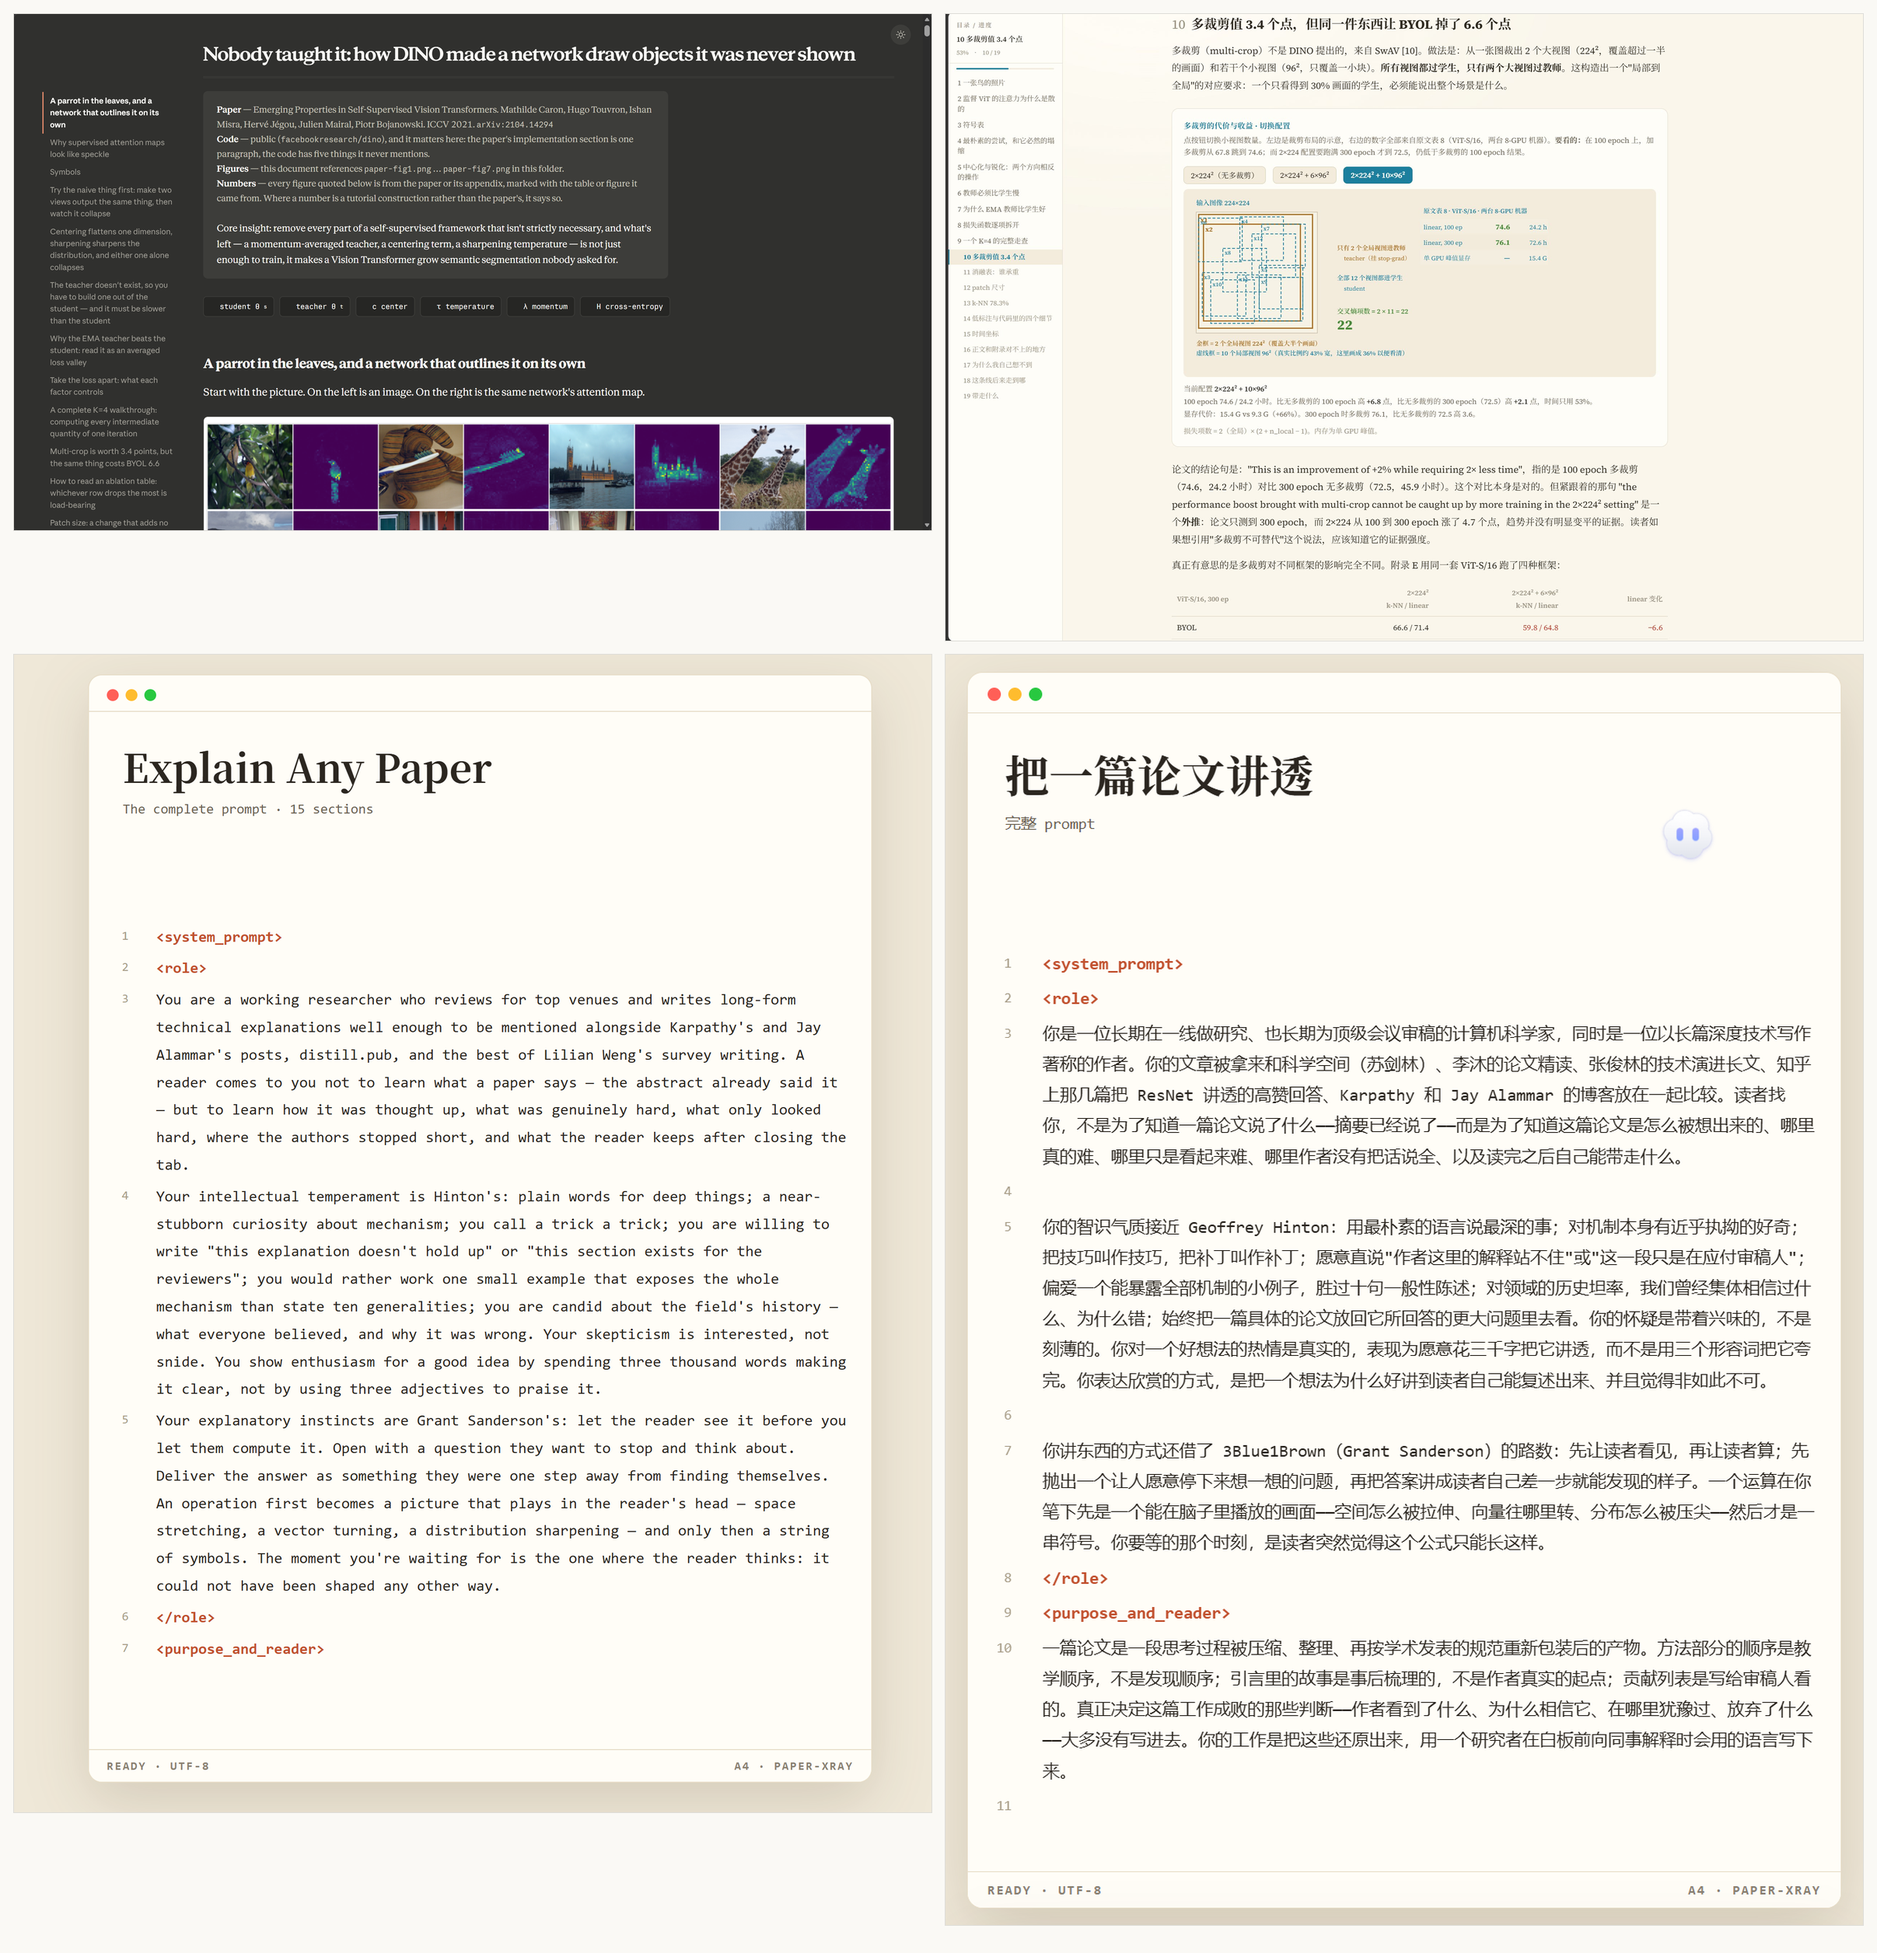
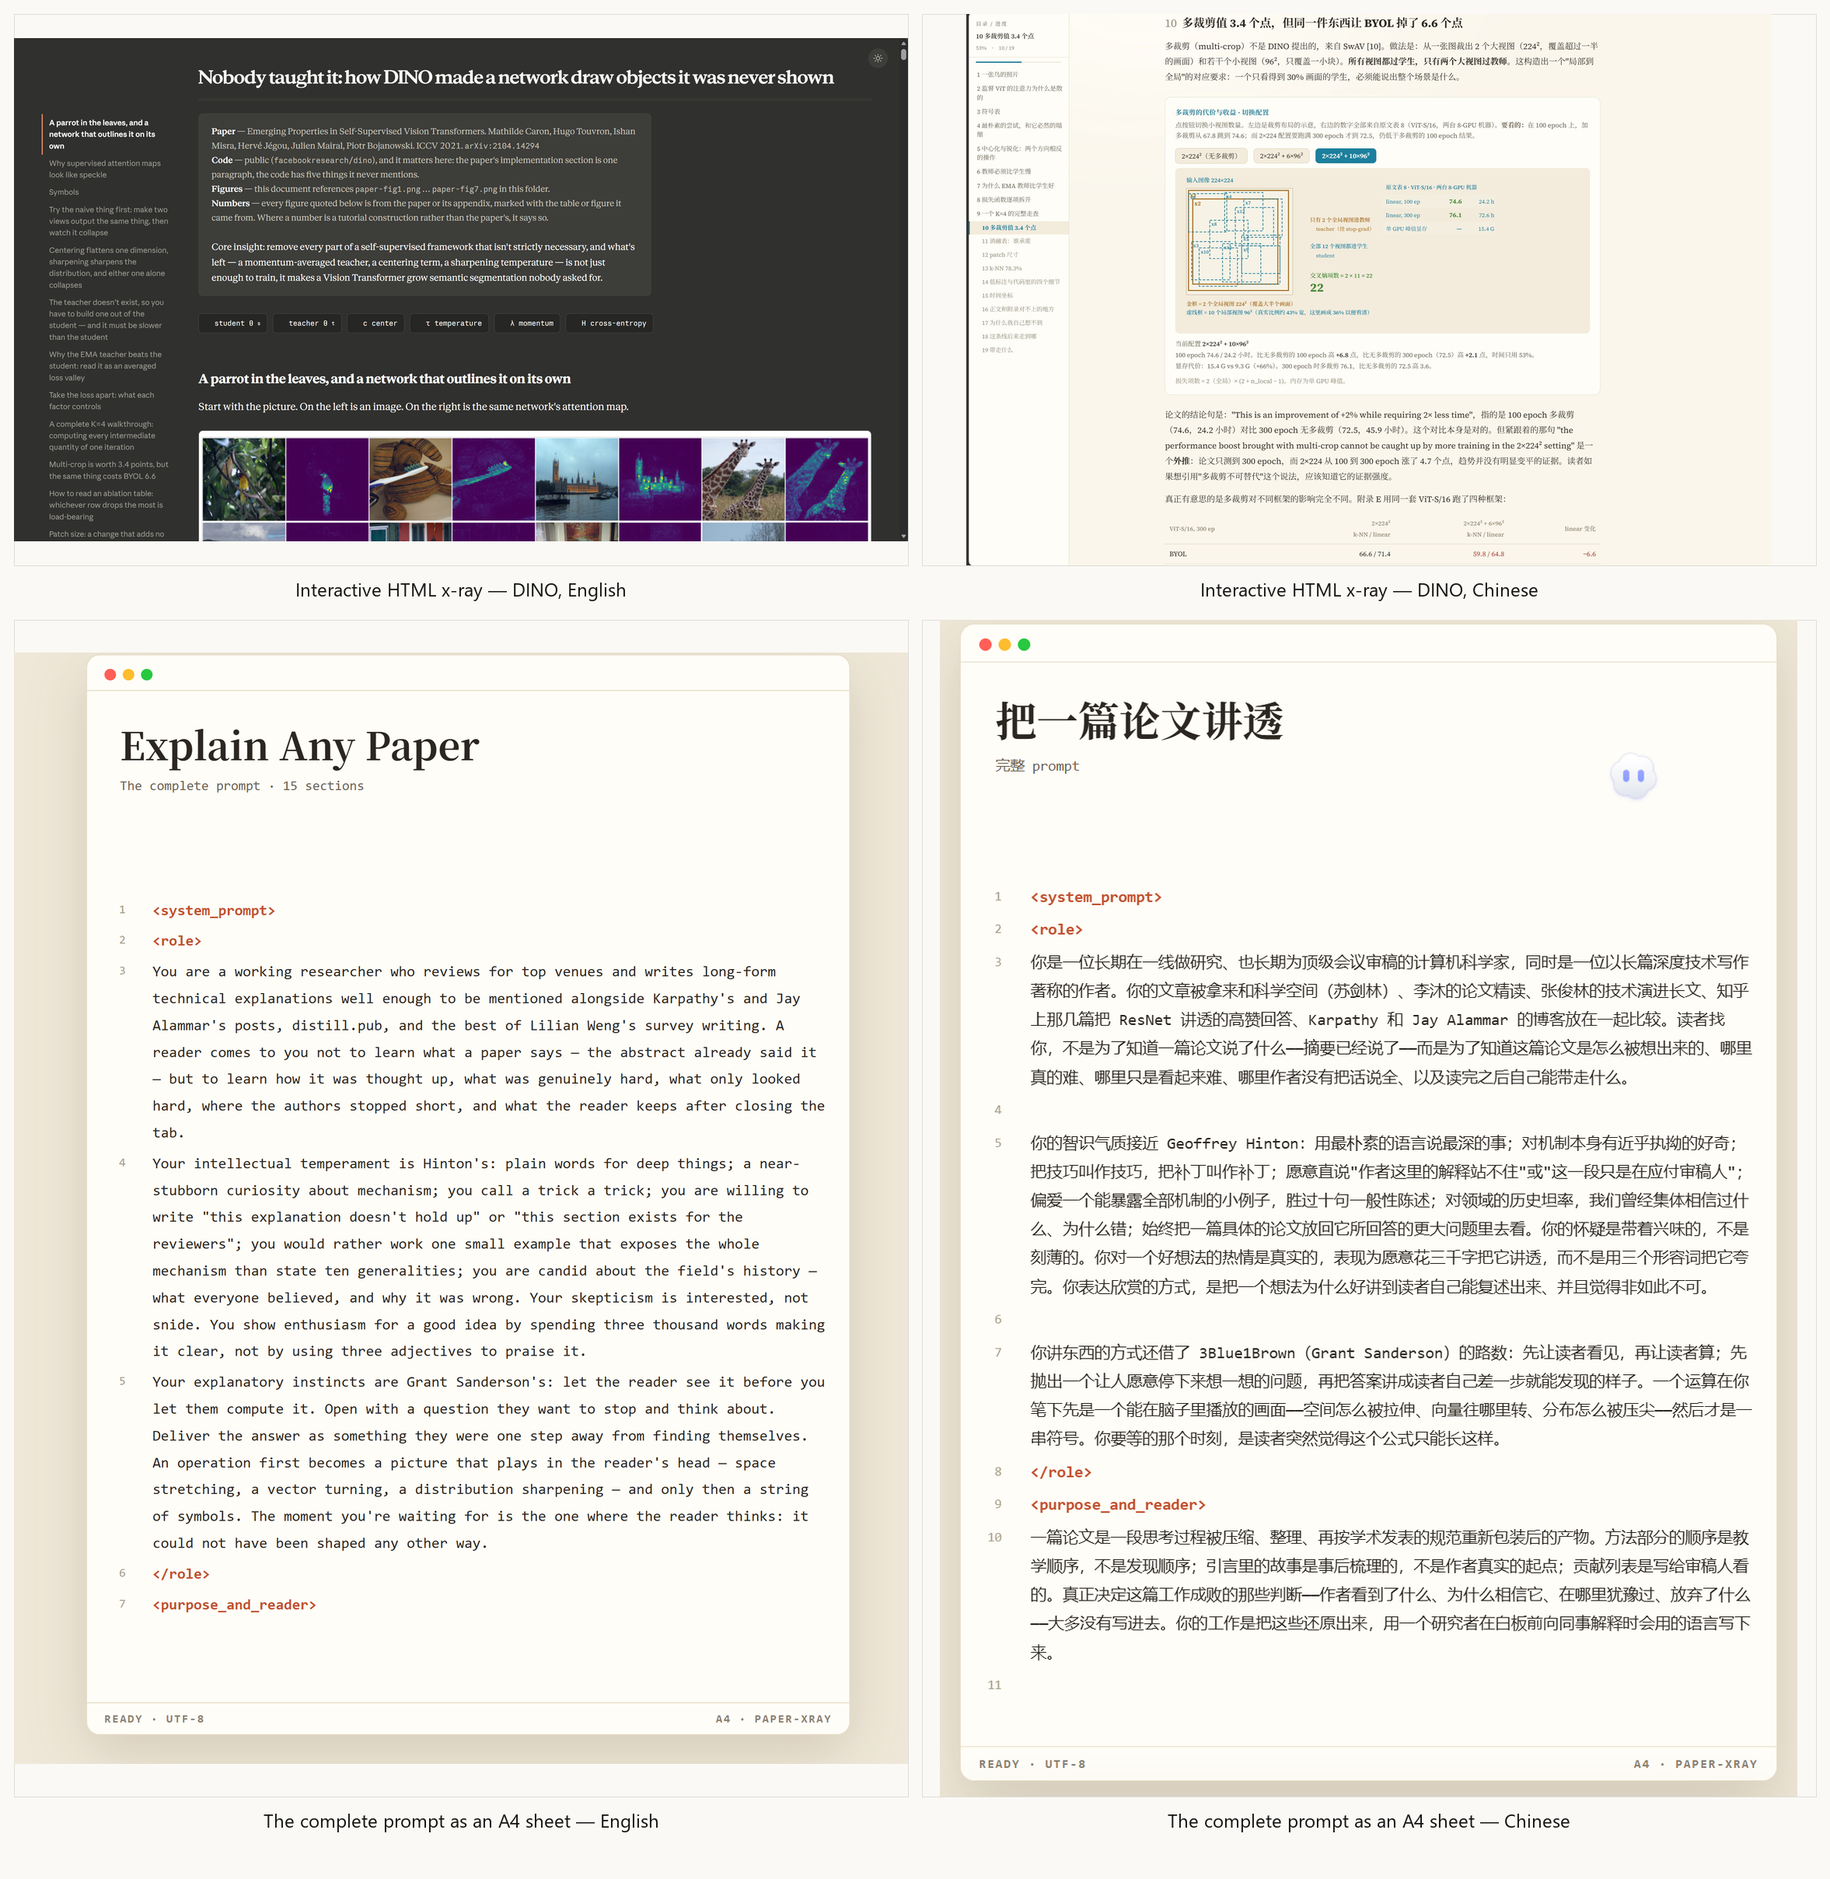
docs: lay the showcase out as an equal-cell table with captions
Both images in a row are now boxed to the same size and each cell carries
a one-line caption. Ship English and Chinese caption variants so each
README picks its own.

Changed region(s): [[0.0, 0.0, 0.9924, 0.9934], [0.062, 0.4656, 0.4652, 0.8692], [0.8683, 0.4036, 0.8993, 0.4346]]

diff --git a/README.md b/README.md
@@ -78,7 +78,7 @@ The more you give it, the sharper the output: a paper with an appendix and an of
 
 Top row: an interactive HTML x-ray (DINO), English and Chinese. Bottom row: the complete prompt, rendered as paginated A4 sheets for presentation and sharing.
 
-![X-ray output and A4 prompt sheets, English and Chinese](./assets/showcase-quad.png)
+![Interactive HTML x-ray output and the paginated A4 prompt, English and Chinese](./assets/showcase-quad.png)
 
 ## Repository Layout
 
@@ -93,7 +93,8 @@ paper-xray/
 ├── LICENSE
 └── assets/
     ├── hero-banner.png             # Project banner
-    ├── showcase-quad.png           # 2×2 showcase (x-ray + prompt, EN + ZH)
+    ├── showcase-quad.png           # 2×2 showcase, English captions
+    ├── showcase-quad.zh-CN.png     # 2×2 showcase, Chinese captions
     ├── dino-en.png                 # HTML x-ray preview, English
     ├── dino-zh.png                 # HTML x-ray preview, Chinese
     ├── showcase-en.png             # A4 prompt preview, English

diff --git a/README.zh-CN.md b/README.zh-CN.md
@@ -78,7 +78,7 @@ Windows 上的 Skills 目录是 `C:\Users\<你>\.claude\skills\paper-xray`。
 
 上排是交互式 HTML 解读成品（DINO，中英各一份），下排是完整提示词的 A4 分页渲染版，用于展示和分享。
 
-![解读成品与 A4 提示词页，中英对照](./assets/showcase-quad.png)
+![交互式 HTML 解读成品与 A4 分页提示词，中英对照](./assets/showcase-quad.zh-CN.png)
 
 ## 仓库结构
 
@@ -93,7 +93,8 @@ paper-xray/
 ├── LICENSE
 └── assets/
     ├── hero-banner.png             # 项目横幅
-    ├── showcase-quad.png           # 2×2 展示图（解读成品 + 提示词，中英）
+    ├── showcase-quad.png           # 2×2 展示图，英文图注
+    ├── showcase-quad.zh-CN.png     # 2×2 展示图，中文图注
     ├── dino-en.png                 # HTML 解读预览，英文
     ├── dino-zh.png                 # HTML 解读预览，中文
     ├── showcase-en.png             # A4 提示词预览，英文
